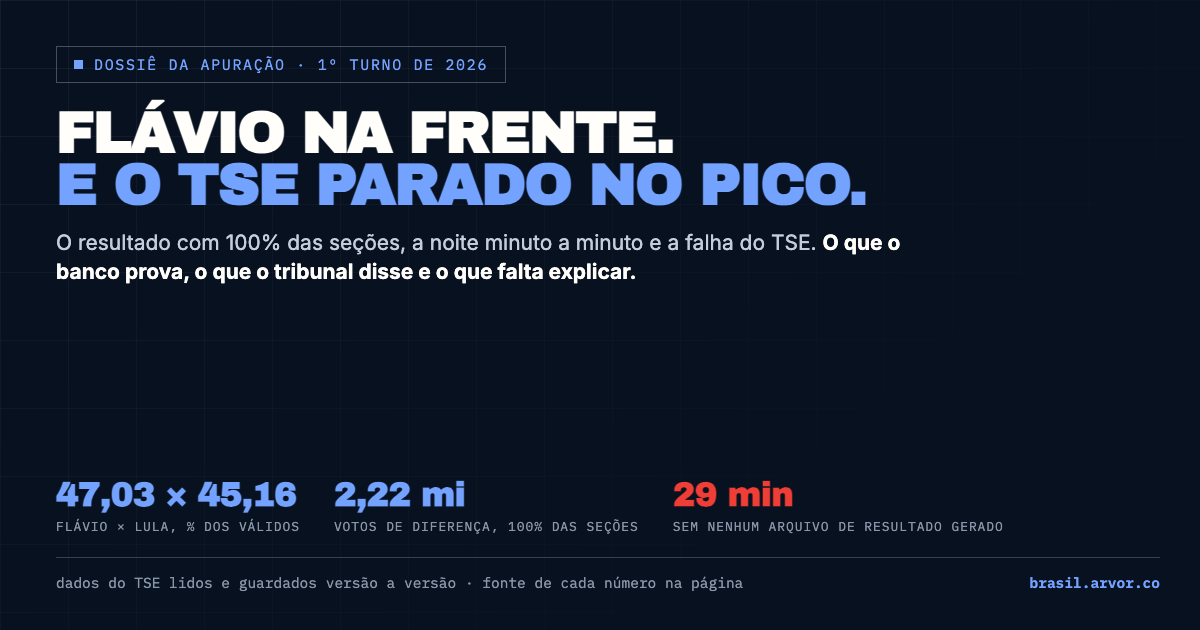
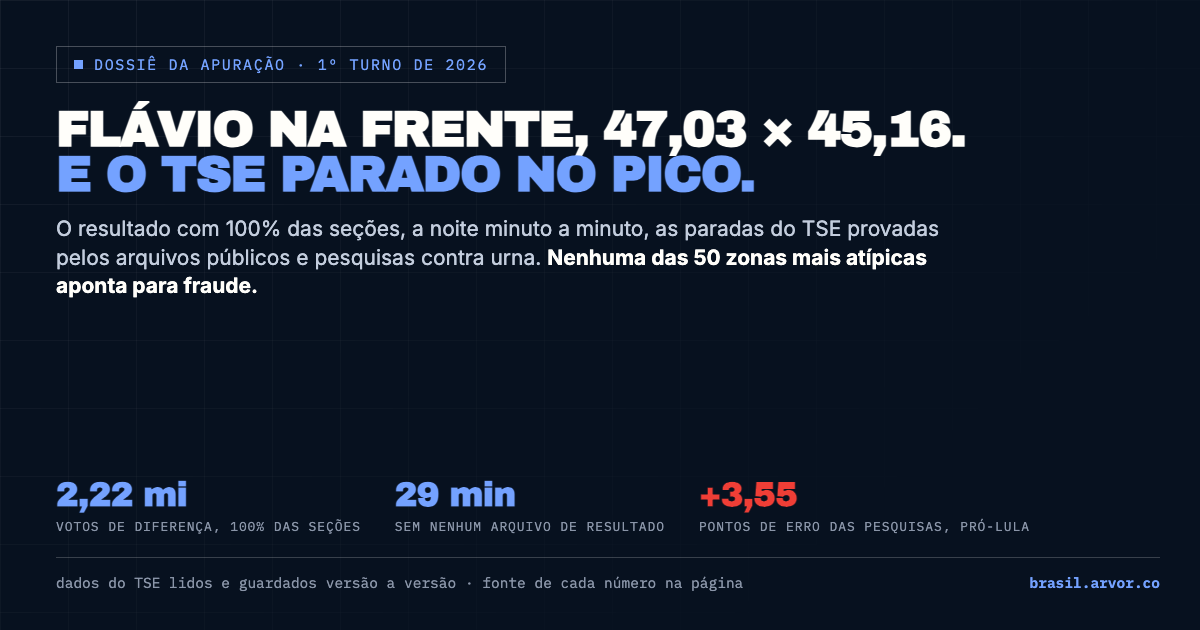
social cards: refresh the apuracao dossier card, add the thread card and link it from the hub

Changed region(s): [[0.0308, 0.1508, 0.8017, 0.4825], [0.0308, 0.754, 0.7092, 0.8444], [0.74, 0.8143, 0.8633, 0.8444]]

diff --git a/docs/assets/og/apuracao_1o_turno_2026_thread.html b/docs/assets/og/apuracao_1o_turno_2026_thread.html
@@ -2,7 +2,7 @@
 <html lang="pt-BR">
 <head>
 <meta charset="utf-8">
-<title>Social card · apuracao_1o_turno_2026</title>
+<title>Social card · apuracao_1o_turno_2026_thread</title>
 <!-- Gerado por scripts/social-cards.py. Não edite à mão: edite o manifesto. -->
 <link href="https://fonts.googleapis.com/css2?family=Archivo+Black&family=IBM+Plex+Mono:wght@400;600&family=Inter:wght@400;600;700;800&display=swap" rel="stylesheet">
 <style>
@@ -49,15 +49,16 @@
 </head>
 <body>
   <div class="card">
+    <span class="tag">Thread</span>
     <div class="left">
       <div>
-        <span class="eyebrow"><i></i>Dossiê da apuração · 1º turno de 2026</span>
-        <h1>Flávio na frente, 47,03 × 45,16.<em>E o TSE parado no pico.</em></h1>
-        <p class="lede">O resultado com 100% das seções, a noite minuto a minuto, as paradas do TSE provadas pelos arquivos públicos e pesquisas contra urna. <b>Nenhuma das 50 zonas mais atípicas aponta para fraude.</b></p>
+        <span class="eyebrow"><i></i>Thread · apuração do 1º turno de 2026</span>
+        <h1>A noite inteira, card a card.<em>E o caminho do 2º turno.</em></h1>
+        <p class="lede">Placar, paradas do TSE, pesquisas contra urna, auditoria por zona e por seção. <b>No fim, a conta do 2º turno e as frases para conversar com o eleitor de terceira via.</b></p>
       </div>
       <div>
-        <div class="stats"><div class="s0"><b>2,22 mi</b><span>votos de diferença, 100% das seções</span></div><div class="s1"><b>29 min</b><span>sem nenhum arquivo de resultado</span></div><div class="s2"><b>+3,55</b><span>pontos de erro das pesquisas, pró-Lula</span></div></div>
-        <div class="foot"><span>dados do TSE lidos e guardados versão a versão · fonte de cada número na página</span><span><b>brasil.arvor.co</b></span></div>
+        <div class="stats"><div class="s0"><b>24</b><span>cards 1:1 com o texto pronto para o X</span></div><div class="s1"><b>10,6 → 1,9</b><span>pontos de vantagem ao longo da noite</span></div><div class="s2"><b>62%</b><span>da terceira via que Lula precisaria para virar</span></div></div>
+        <div class="foot"><span>arquivos públicos do TSE · cada número com fonte no dossiê</span><span><b>brasil.arvor.co</b></span></div>
       </div>
     </div>
   </div>

diff --git a/docs/index.html b/docs/index.html
@@ -97,7 +97,7 @@
           <div class="featured-body"><div class="featured-meta"><span class="chip key">Dossiê da apuração · 1º turno</span><span class="chip">100% das seções</span><span class="chip">15 capítulos</span></div>
           <h2 class="title">Flávio na frente. <em>E o TSE parado no pico.</em></h2>
           <p>O resultado final, a noite versão a versão e a falha do TSE em três camadas: o que o banco da casa prova, o que o aplicativo oficial mostrava e o que o tribunal disse. Depois, Câmara, Senado, assembleias, governadores, pesquisas contra a urna, voto útil, anomalias por zona e o caminho do 2º turno, com o achado contrário publicado com o mesmo peso.</p>
-          <div class="tags"><a class="tag primary" href="apuracao_1o_turno_2026.html">O dossiê da apuração</a><a class="tag" href="apuracao_1o_turno_2026.html#falha-tse">A falha do TSE</a><a class="tag" href="apuracao_1o_turno_2026.html#pesquisas">Pesquisas × urna</a><a class="tag" href="apuracao_1o_turno_2026.html#segundo-turno">O caminho do 2º turno</a></div></div>
+          <div class="tags"><a class="tag primary" href="apuracao_1o_turno_2026.html">O dossiê da apuração</a><a class="tag" href="apuracao_1o_turno_2026_thread.html">Super thread, 24 cards</a><a class="tag" href="apuracao_1o_turno_2026.html#falha-tse">A falha do TSE</a><a class="tag" href="apuracao_1o_turno_2026.html#pesquisas">Pesquisas × urna</a><a class="tag" href="apuracao_1o_turno_2026.html#segundo-turno">O caminho do 2º turno</a></div></div>
         </article>
 
         <article class="featured agregador reveal" id="agregador">

diff --git a/scripts/social-card-apuracao.py b/scripts/social-card-apuracao.py
@@ -1,4 +1,8 @@
-"""Texto dinâmico do card do dossiê da apuração do 1º turno de 2026."""
+"""Texto dinâmico dos cards do dossiê da apuração do 1º turno de 2026 e da thread.
+
+Todo número sai dos JSONs de analysis/apuracao_2026/dados/; sem eles, o card cai
+num texto neutro, sem número.
+"""
 
 import json
 
@@ -7,52 +11,99 @@ def _num(x, casas=2):
     return f"{x:,.{casas}f}".replace(",", " ").replace(".", ",").replace(" ", ".")
 
 
+def _ler(root, nome):
+    caminho = root / "analysis/apuracao_2026/dados" / f"{nome}.json"
+    if not caminho.exists():
+        return None
+    return json.loads(caminho.read_text(encoding="utf-8"))
+
+
 def card(root):
-    dados = root / "analysis/apuracao_2026/dados"
-    stats = [
-        ("100%", "das seções apuradas"),
-        ("3", "paradas do arquivo nacional"),
-        ("15", "capítulos"),
-    ]
+    pres = _ler(root, "presidente")
+    lt = _ler(root, "linha_do_tempo")
+    pq = _ler(root, "pesquisas_vs_urna")
+    an = _ler(root, "anomalias")
+    title = "Flávio na frente."
+    stats = [("100%", "das seções apuradas")]
     lede = "O resultado, a noite minuto a minuto e a falha do TSE, com três camadas de fonte."
-    pres = dados / "presidente.json"
-    if pres.exists():
-        n = json.loads(pres.read_text(encoding="utf-8"))["nacional"]
+    if pres:
+        n = pres["nacional"]
+        title = (
+            f"Flávio na frente, {_num(n['pct']['flavio'])} × {_num(n['pct']['lula'])}."
+        )
         stats = [
-            (
-                f"{_num(n['pct']['flavio'])} × {_num(n['pct']['lula'])}",
-                "Flávio × Lula, % dos válidos",
-            ),
             (
                 f"{_num(n['diferenca_votos'] / 1e6)} mi",
                 "votos de diferença, 100% das seções",
-            ),
-        ]
-        lt = dados / "linha_do_tempo.json"
-        if lt.exists():
-            lacunas = (
-                json.loads(lt.read_text(encoding="utf-8"))
-                .get("pausa_geral", {})
-                .get("lacunas", [])
             )
-            if lacunas:
-                stats.append(
-                    (
-                        f"{round(lacunas[0]['minutos'])} min",
-                        "sem nenhum arquivo de resultado gerado",
-                    )
-                )
+        ]
+        if lt and lt.get("pausa_geral", {}).get("lacunas"):
+            minutos = lt["pausa_geral"]["lacunas"][0]["minutos"]
+            stats.append((f"{round(minutos)} min", "sem nenhum arquivo de resultado"))
+        if pq:
+            erro = pq["medias"]["ultimas_ondas_publicado"][
+                "diferenca_lula_menos_flavio"
+            ]["erro"]
+            stats.append((f"+{_num(erro)}", "pontos de erro das pesquisas, pró-Lula"))
+        n_topo = len(an["topo"][:50]) if an else None
+        fecho = (
+            f"<b>Nenhuma das {n_topo} zonas mais atípicas aponta para fraude.</b>"
+            if n_topo
+            else "<b>O que o banco prova, o que o tribunal disse e o que falta explicar.</b>"
+        )
         lede = (
-            "O resultado com 100% das seções, a noite minuto a minuto e a falha do TSE. "
-            "<b>O que o banco prova, o que o tribunal disse e o que falta explicar.</b>"
+            "O resultado com 100% das seções, a noite minuto a minuto, as paradas do "
+            "TSE provadas pelos arquivos públicos e pesquisas contra urna. " + fecho
         )
     return {
         "slug": "apuracao_1o_turno_2026",
         "eyebrow": "Dossiê da apuração · 1º turno de 2026",
-        "title": "Flávio na frente.",
+        "title": title,
         "title_em": "E o TSE parado no pico.",
         "lede": lede,
         "stats": stats,
         "foot": "dados do TSE lidos e guardados versão a versão · fonte de cada número na página",
         "accent": "blue",
+    }
+
+
+def card_thread(root):
+    nr = _ler(root, "noite_regioes")
+    est = _ler(root, "estrategia_2t")
+    from apuracao_2026.thread_posts_a import POSTS_A
+    from apuracao_2026.thread_posts_b import POSTS_B
+
+    stats = [
+        (str(len(POSTS_A) + len(POSTS_B)), "cards 1:1 com o texto pronto para o X")
+    ]
+    if nr:
+        dec = nr["decomposicao"]
+        stats.append(
+            (
+                f"{_num(dec['pico_pp'], 1)} → {_num(dec['final_pp'], 1)}",
+                "pontos de vantagem ao longo da noite",
+            )
+        )
+    if est:
+        eq = est["aritmetica"]["equilibrio"]
+        stats.append(
+            (
+                f"{_num(eq['lula_precisa_se_todos_votarem_pct'], 0)}%",
+                "da terceira via que Lula precisaria para virar",
+            )
+        )
+    return {
+        "slug": "apuracao_1o_turno_2026_thread",
+        "eyebrow": "Thread · apuração do 1º turno de 2026",
+        "title": "A noite inteira, card a card.",
+        "title_em": "E o caminho do 2º turno.",
+        "lede": (
+            "Placar, paradas do TSE, pesquisas contra urna, auditoria por zona e por "
+            "seção. <b>No fim, a conta do 2º turno e as frases para conversar com o "
+            "eleitor de terceira via.</b>"
+        ),
+        "stats": stats,
+        "foot": "arquivos públicos do TSE · cada número com fonte no dossiê",
+        "accent": "blue",
+        "thread": True,
     }

diff --git a/scripts/social-cards.py b/scripts/social-cards.py
@@ -61,6 +61,7 @@ _ONDAS, _INSTITUTOS = _agregador_counts()
 
 CARDS: list[dict] = [
     importlib.import_module("social-card-apuracao").card(ROOT),
+    importlib.import_module("social-card-apuracao").card_thread(ROOT),
     importlib.import_module("social-card-predicao").card(ROOT),
     importlib.import_module("social-card-senado").card(ROOT),
     importlib.import_module("social-card-governador").card(ROOT),
